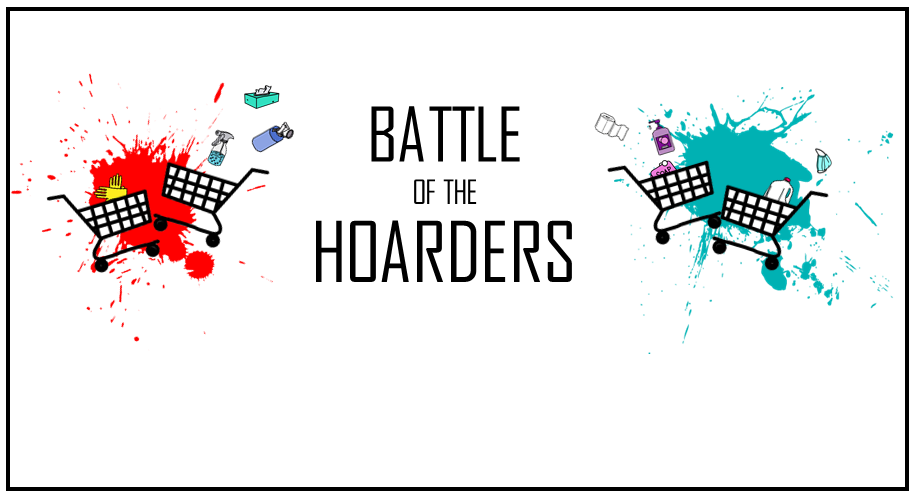
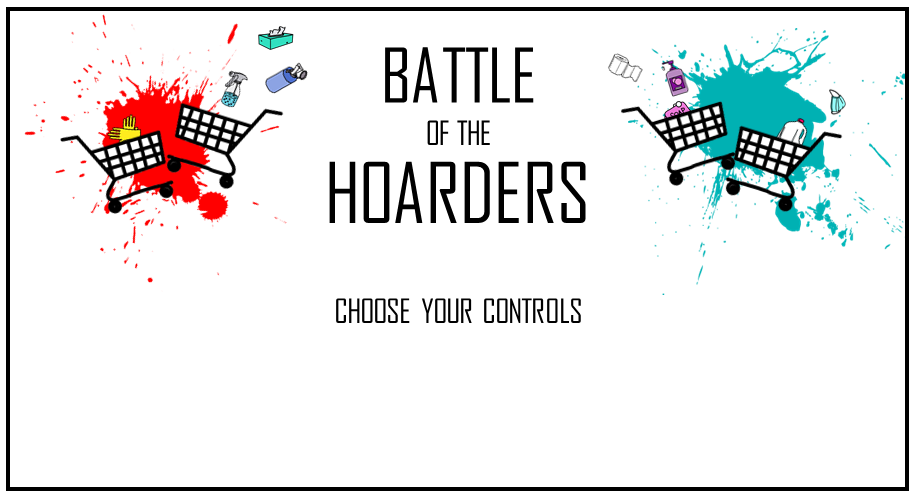
Tried changing end translate

diff --git a/public/sketch.js b/public/sketch.js
@@ -48,6 +48,7 @@ var arrowVal;
 var scaleCount = 1;
 var imageOpacity = 255;
 
+
 function preload(){
 
    // intro images
@@ -144,15 +145,15 @@ function setup() {
   markTypes.push(mark4);
   markTypes.push(mark5);
 
-  socket = io.connect('http://cleft.fun:30000');
-  //socket = io.connect('http://localhost:3000');
+  //socket = io.connect('http://cleft.fun:30000');
+  socket = io.connect('http://localhost:3000');
 
   openSimplex = new OpenSimplexNoise2D(Date.now());
 
   //initial cart
   var data = {
-    x: mouseX,
-    y: mouseY,
+    x: windowWidth/2,
+    y: windowHeight/2,
     dir: "left",
     items: 0
   };
@@ -259,7 +260,7 @@ function draw() {
       background(255);
 
       //zoom out
-      if(marks.length == 100) {
+      if(marks.length == 2) {
         button_mouse.hide();
         button_key.hide();
         if(scaleCount > .5) {
@@ -268,8 +269,6 @@ function draw() {
           imageOpacity=imageOpacity-7;
         } else {
           scale(scaleCount);
-          showEndScreen();
-          screen = 3;
         }
       }
 
@@ -318,7 +317,11 @@ function draw() {
 
 
     push(); //------------WORLD SCROLLING SET UP--------
+    if(scaleCount == 1) {
       translate(worldOffset.x+(width/2),worldOffset.y+(height/2));
+    } else {
+      translate((width/2),(height/2));
+    }
 
       //draw marks
       for (var i = marks.length - 1; i >= 0; i--) {
@@ -482,14 +485,16 @@ function draw() {
     }
 
     if(scaleCount == .5) {
-      showEndScreen();
       screen = 3;
     }
 
   //end of game screen
   } else {
+    socket.emit('delete users');
+    supplies = [];
+    translate(windowWidth/2, windowHeight/2);
     scale(scaleCount);
-    translate(worldOffset.x+(width/2),worldOffset.y+(height/2));
+    console.log(worldOffset);
 
     //draw marks
     for (var i = marks.length - 1; i >= 0; i--) {
@@ -613,8 +618,3 @@ function windowResized() {
 
   resizeCanvas(w, h, true);
 } 
-
-function showEndScreen() {
-  socket.emit('delete users');
-  supplies = [];
-}

diff --git a/server.js b/server.js
@@ -5,7 +5,7 @@ var app = express();
 
 // Set up the server
 // process.env.PORT is related to deploying on heroku
-var server = app.listen(process.env.PORT || 30000, listen);
+var server = app.listen(process.env.PORT || 3000, listen);
 
 
 // This call back just tells us that the server has started
